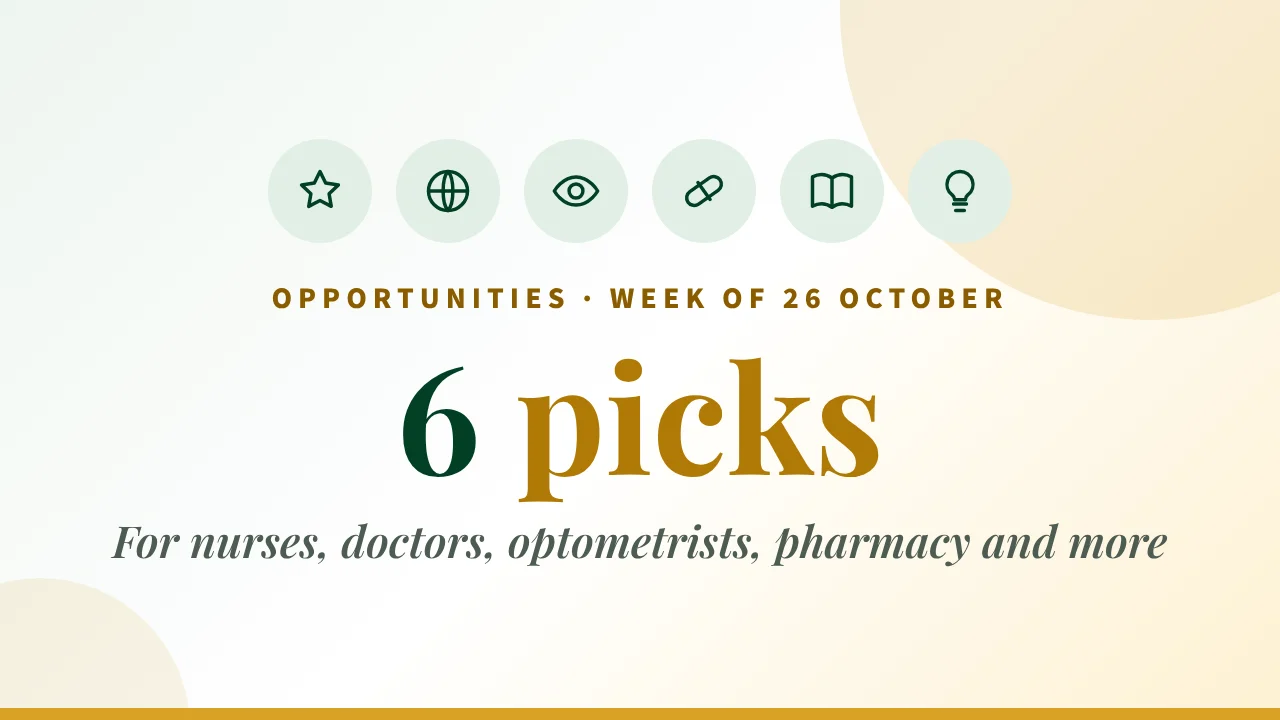
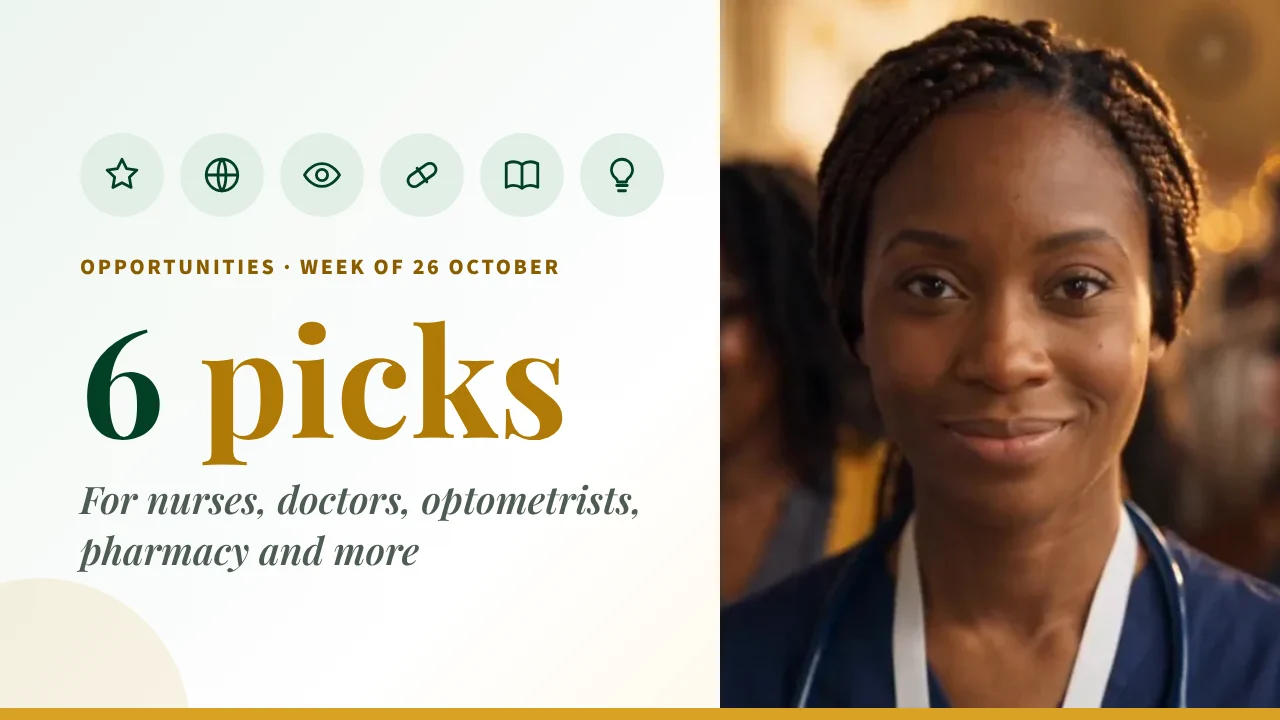
News page: magazine layout (#23)
* News page: magazine layout with lead story, three features and earlier stories

Claude-Session: https://claude.ai/code/session_01TceWZ1n8TxHLDNLvaqp6sJ

* News magazine layout: people-led lead story image, Earlier stories label at all widths

Claude-Session: https://claude.ai/code/session_01TceWZ1n8TxHLDNLvaqp6sJ

---------

diff --git a/styles.css b/styles.css
@@ -227,7 +227,7 @@ section{padding:72px 0}
 .stack{display:grid;gap:22px}
 .photo-side{width:100%}
 .photo-side img{aspect-ratio:1/1;object-position:50% 30%}
-.news-thumb{position:relative;margin:-26px -26px 18px;border-radius:calc(var(--radius) - 4px) calc(var(--radius) - 4px) 0 0;overflow:hidden;background:var(--green-ink)}
+.news-thumb{position:relative;margin:-26px -26px 18px;border-radius:calc(var(--radius) - 4px) calc(var(--radius) - 4px) 0 0;overflow:hidden;background:var(--tint)}
 .news-thumb img{display:block;width:100%;height:auto;aspect-ratio:16/9;object-fit:cover}
 @media (max-width:560px){
   .photo-strip{grid-template-columns:none;grid-auto-flow:column;grid-auto-columns:64%;overflow-x:auto;scroll-snap-type:x mandatory;padding-bottom:8px;gap:12px}
@@ -238,3 +238,32 @@ section{padding:72px 0}
 .news-thumb .ai-tag{top:auto;left:auto;bottom:10px;right:10px}
 .swipe-hint{display:none}
 @media (max-width:560px){.swipe-hint{display:block;font-size:.85rem;font-weight:700;color:var(--gold-deep);margin:28px 0 -24px;text-align:right}}
+
+/* News: magazine layout (lead story, three features, earlier stories) */
+@media (min-width:900px){
+.news-list.mag{grid-template-columns:repeat(3,1fr)}
+.mag>.news-item:first-child{grid-column:1/-1;display:grid;grid-template-columns:1.25fr 1fr;grid-template-rows:1fr auto auto auto auto 1fr;column-gap:36px;padding:0 36px 0 0;border-top-width:5px}
+.mag>.news-item:first-child .news-thumb{grid-row:1/7;margin:0;border-radius:0;align-self:stretch;display:flex;align-items:center}
+.mag>.news-item:first-child .news-thumb img{aspect-ratio:16/9}
+.mag>.news-item:first-child time{grid-row:2;margin-top:24px}
+.mag>.news-item:first-child h3{grid-row:3;font-size:1.8rem;line-height:1.15}
+.mag>.news-item:first-child p{grid-row:4;font-size:1.02rem;color:var(--muted)}
+.mag>.news-item:first-child a{grid-row:5;justify-self:start;background:var(--gold);color:var(--green-ink);padding:10px 20px;border-radius:999px;margin:6px 0 24px}
+.mag>.news-item:nth-child(n+5){grid-column:1/-1;display:grid;grid-template-columns:200px 1fr;column-gap:24px;align-content:center;padding:16px;border-top-width:1px;box-shadow:none}
+.mag>.news-item:nth-child(n+5) .news-thumb{grid-row:1/5;margin:0;border-radius:10px;align-self:start}
+.mag>.news-item:nth-child(n+5) h3{font-size:1.15rem;margin-bottom:.25em}
+.mag>.news-item:nth-child(n+5) p{font-size:.95rem;color:var(--muted);margin-bottom:6px}
+.mag>.news-item:nth-child(n+5) .ai-tag{font-size:.6rem;padding:2px 6px;bottom:6px;right:6px}
+}
+.news-item h3{font-family:"Playfair Display",Georgia,serif}
+@media (max-width:899px){
+.mag>.news-item:nth-child(n+5){display:grid;grid-template-columns:110px 1fr;column-gap:14px;padding:14px;box-shadow:none;border-top-width:1px}
+.mag>.news-item:nth-child(n+5) .news-thumb{grid-row:1/4;margin:0;border-radius:8px;align-self:start}
+.mag>.news-item:nth-child(n+5) .ai-tag{font-size:.6rem;padding:2px 6px;bottom:4px;right:4px}
+.mag>.news-item:nth-child(n+5) h3{font-size:1.05rem;margin-bottom:.3em}
+.mag>.news-item:nth-child(n+5) p{display:none}
+.mag>.news-item:nth-child(n+5) time{font-size:.75rem;margin-bottom:4px}
+}
+.mag>.news-item:nth-child(n+5){position:relative}
+.mag>.news-item:nth-child(5){margin-top:56px}
+.mag>.news-item:nth-child(5)::before{content:"Earlier stories";position:absolute;top:-46px;left:0;font-family:"Playfair Display",Georgia,serif;font-weight:700;font-size:1.3rem;color:var(--green)}

diff --git a/news.html b/news.html
@@ -80,9 +80,9 @@
       <div class="rule"></div>
       <h2>Current news</h2>
     </div>
-    <div class="grid news-list">
+    <div class="grid news-list mag">
       <article class="card news-item">
-        <div class="news-thumb"><img src="assets/news/opportunities-2026-10-26.webp" alt="" width="640" height="360" loading="lazy"></div>
+        <div class="news-thumb"><img src="assets/news/opportunities-2026-10-26.webp" alt="" width="640" height="360" loading="lazy"><span class="ai-tag">AI illustration</span></div>
         <time datetime="2026-10-26">26 October 2026</time>
         <h3>Opportunities this week: 6 picks for healthcare professionals</h3>
         <p>A funded leadership programme for minority ethnic nurses and midwives, public health specialty training, and picks for optometry, pharmacy, support workers and researchers.</p>
